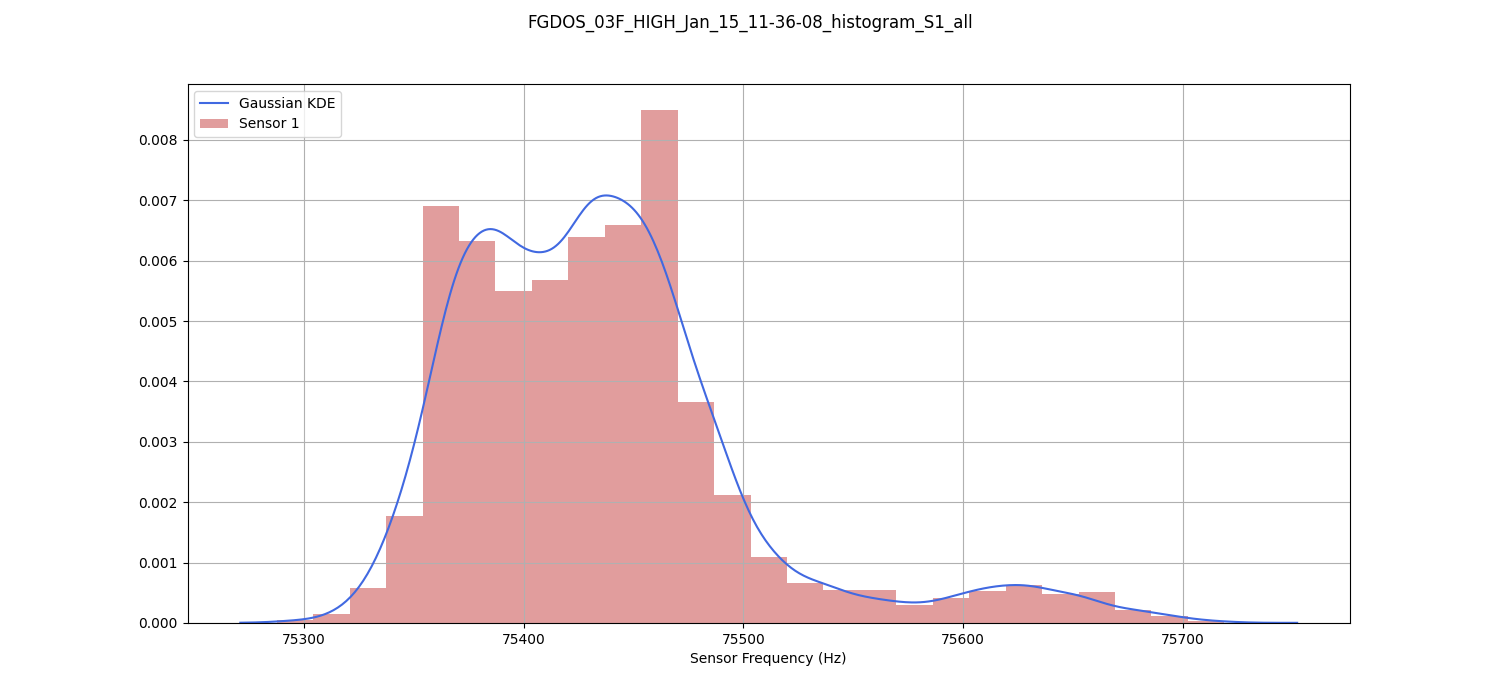
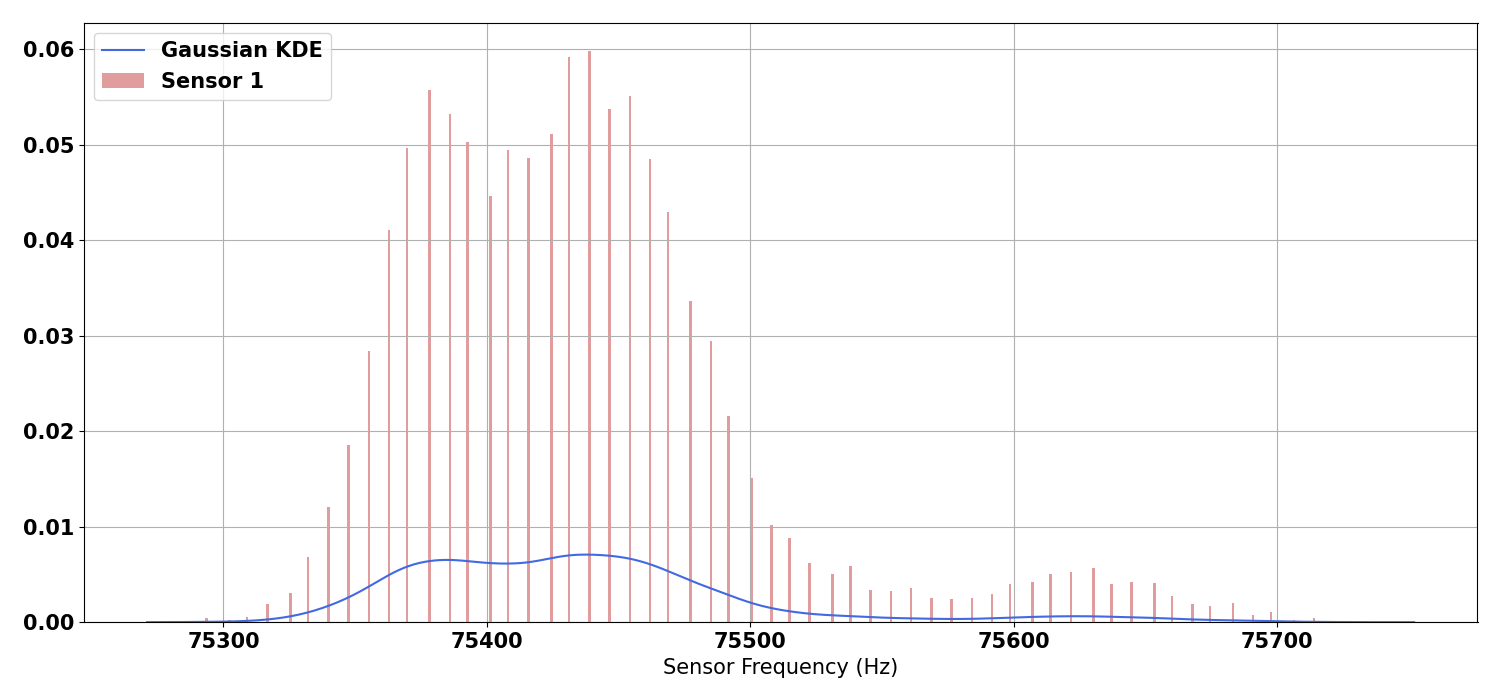
D:\TUDelft\Thesis\P. Code\P. VSCode\Python_Scripts added analysis of some of the tests of 24/03/2022 Please enter the commit message for your changes. Lines starting

diff --git a/FGD_03F_noise_analysis_functions.py b/FGD_03F_noise_analysis_functions.py
@@ -397,29 +397,29 @@ def HIGH_Jan_15_analysis(file_1,file_2,folder):
     i_end_1, i_end_2 = dataset_1.index.tolist()[-1] , dataset_2.index.tolist()[-1]
 
     # Histogram and noise range limits
-    x_1_l, x_2_l = dataset_1.loc[i_start_1:i_end_1,[F_s_info]] , dataset_2.loc[i_start_2:i_end_2,[F_s_info]]
+    x_1_l, x_2_l = dataset_1.loc[i_start_1:i_end_1,F_s_info] , dataset_2.loc[i_start_2:i_end_2,F_s_info]
     sensitivity = 10 # kHz/Gy
-    print("number of data points S1: %d"%(len(x_1_l[F_s_info])))
-    fig, ax, kde = hist_dist_plot(x_1_l,file_name_1[0:-7]+'_histogram_S1_all','Sensor 1', colors=['indianred','royalblue'],savefolder=savefolder, bins=29, dist = 'kde')[0:3]
+    print("number of data points S1: %d"%(len(x_1_l)))
+    fig, ax, kde = hist_dist_plot(x_1_l,F_s_info,file_name_1[0:-7]+'_histogram_S1_all','Sensor 1', colors=['indianred','royalblue'],savefolder=savefolder, bins=500, dist = 'kde')[0:3] # 29 bins
     resolution_1 = kde_limits(x_1_l,1000,kde,sensitivity)
-    print("number of data points S2: %d"%(len(x_2_l[F_s_info])))
-    fig, ax, kde = hist_dist_plot(x_2_l,file_name_1[0:-7]+'_histogram_S2_all','Sensor 2', colors=['royalblue','indianred'],savefolder=savefolder, bins = 23,dist='kde')[0:3]
+    print("number of data points S2: %d"%(len(x_2_l)))
+    fig, ax, kde = hist_dist_plot(x_2_l,F_s_info,file_name_1[0:-7]+'_histogram_S2_all','Sensor 2', colors=['royalblue','indianred'],savefolder=savefolder, bins = 500,dist='kde')[0:3] # 23 bins
     resolution_2 = kde_limits(x_2_l,1000,kde,sensitivity)
     print("Resolution assuming %f (kHz/Gy) sensitivity (mGy) (S1 | S2): %.3f | %.3f "%(sensitivity,resolution_1,resolution_2))
 
     # take full range and compare to part of range!
-    print("OVER PART RANGE (1250-1850")
+    print("OVER PART RANGE (1250-1850)")
     i_start_1, i_start_2 = dataset_1.index[dataset_1[t_info_s]>=1250].tolist()[0] , dataset_2.index[dataset_2[t_info_s]>=1250].tolist()[0]
     i_end_1, i_end_2 = dataset_1.index[dataset_1[t_info_s]>=1850].tolist()[0] , dataset_2.index[dataset_2[t_info_s]>=1850].tolist()[0]
 
     # Histogram and noise range limits
-    x_1_l, x_2_l = dataset_1.loc[i_start_1:i_end_1,[F_s_info]] , dataset_2.loc[i_start_2:i_end_2,[F_s_info]]
+    x_1_l, x_2_l = dataset_1.loc[i_start_1:i_end_1,F_s_info] , dataset_2.loc[i_start_2:i_end_2,F_s_info]
     sensitivity = 10 # kHz/Gy
-    print("number of data points S1: %d"%(len(x_1_l[F_s_info])))
-    fig, ax, kde = hist_dist_plot(x_1_l,file_name_1[0:-7]+'_histogram_S1_part','Sensor 1', colors=['indianred','royalblue'],savefolder=savefolder, bins=23, dist = 'kde')[0:3]
+    print("number of data points S1: %d"%(len(x_1_l)))
+    fig, ax, kde = hist_dist_plot(x_1_l,F_s_info,file_name_1[0:-7]+'_histogram_S1_part','Sensor 1', colors=['indianred','royalblue'],savefolder=savefolder, bins=23, dist = 'kde')[0:3]
     resolution_1 = kde_limits(x_1_l,1000,kde,sensitivity)
-    print("number of data points S2: %d"%(len(x_2_l[F_s_info])))
-    fig, ax, kde = hist_dist_plot(x_2_l,file_name_1[0:-7]+'_histogram_S2_part','Sensor 2', colors=['royalblue','indianred'],savefolder=savefolder, bins = 23,dist='kde')[0:3]
+    print("number of data points S2: %d"%(len(x_2_l)))
+    fig, ax, kde = hist_dist_plot(x_2_l,F_s_info,file_name_1[0:-7]+'_histogram_S2_part','Sensor 2', colors=['royalblue','indianred'],savefolder=savefolder, bins = 23,dist='kde')[0:3]
     resolution_2 = kde_limits(x_2_l,1000,kde,sensitivity)
     print("Resolution assuming %f (kHz/Gy) sensitivity (mGy) (S1 | S2): %.3f | %.3f "%(sensitivity,resolution_1,resolution_2))
 
@@ -707,8 +707,8 @@ def HIGH_w32768_Feb_23_analysis(file_1,file_2,folder):
     print("PART OF RANGE (600-2400)")
     x_1_l, x_2_l = x_1_l, x_2_l = dataset_1.loc[i_start_1:i_end_1,F_s_info] , dataset_2.loc[i_start_2:i_end_2,F_s_info]
     print("number of data points (S1 | S2): %d | %d"%(len(x_1_l),len(x_2_l)))
-    mu_1,std_1 = hist_dist_plot(x_1_l,F_s_info,file_name_1[0:-7]+'_histogram_S1','Sensor 1', colors=['indianred','royalblue'],savefolder=savefolder, bins=18,dist='normal')[3:5]
-    mu_2,std_2 = hist_dist_plot(x_2_l,F_s_info,file_name_1[0:-7]+'_histogram_S2','Sensor 2', colors=['royalblue','indianred'],savefolder=savefolder, bins = 18,dist='normal')[3:5]
+    mu_1,std_1 = hist_dist_plot(x_1_l,F_s_info,file_name_1[0:-7]+'_histogram_S1','Sensor 1', colors=['indianred','royalblue'],savefolder=savefolder, bins=1000,dist='normal')[3:5] # bins 18
+    mu_2,std_2 = hist_dist_plot(x_2_l,F_s_info,file_name_1[0:-7]+'_histogram_S2','Sensor 2', colors=['royalblue','indianred'],savefolder=savefolder, bins=1000,dist='normal')[3:5] # bins 18
     print("Noise peak to peak range limits (+- 2*sigma = 95.45%%) S1 (mu | 4s ): %f | %f "%(mu_1,4*std_1))
     print("Noise peak to peak range limits (+- 2*sigma = 95.45%%) S2 (mu | 4s ): %f | %f "%(mu_2,4*std_2))
 
@@ -728,7 +728,7 @@ def HIGH_w32768_Feb_23_analysis(file_1,file_2,folder):
     data_points_1, data_points_2 = len(y_1_noise.index),len(y_2_noise.index)
     print("data points (S1 | S2): %d | %d"%(data_points_1,data_points_2))
     mu_1,std_1 = hist_dist_plot(y_1_noise,F_s_info,file_name_1[0:-7]+'_histogram_S1_noise','Sensor 1', colors=['indianred','royalblue'],savefolder=savefolder, bins=18,dist='normal')[3:5]
-    mu_2,std_2 = hist_dist_plot(y_2_noise,F_s_info,file_name_1[0:-7]+'_histogram_S2_noise','Sensor 2', colors=['royalblue','indianred'],savefolder=savefolder, bins = 18,dist='normal')[3:5]
+    mu_2,std_2 = hist_dist_plot(y_2_noise,F_s_info,file_name_1[0:-7]+'_histogram_S2_noise','Sensor 2', colors=['royalblue','indianred'],savefolder=savefolder, bins=18,dist='normal')[3:5]
     print("Noise peak to peak range limits (+- 2*sigma = 95.45%%) S1 (mu | 4s ): %f | %f "%(mu_1,4*std_1))
     print("Noise peak to peak range limits (+- 2*sigma = 95.45%%) S2 (mu | 4s ): %f | %f "%(mu_2,4*std_2))
 

diff --git a/FGD_03F_analysis.py b/FGD_03F_analysis.py
@@ -11,8 +11,8 @@ from FGD_03F_file_analysis_functions import *
 from FGD_03F_noise_analysis_functions import *
 
 flag_HollandPTC_1216 = 0
-flag_HollandPTC_0224 = 1
-flag_Noise = 0
+flag_HollandPTC_0224 = 0
+flag_Noise = 1
 
 if (flag_HollandPTC_1216):
     # which files to analyse
@@ -42,12 +42,12 @@ elif (flag_Noise):
     flag_Noise_04_HIGH_Dec_16 = 0
     flag_HIGH_Jan_14 = 0
     flag_HIGH_Jan_15 = 0
-    flag_LOW_Jan_15 = 1
+    flag_LOW_Jan_15 = 0
     flag_HIGH_Jan_26 = 0
     flag_HIGH_Feb_18 = 0
     flag_HIGH_w32768_Feb_22 = 0
     flag_HIGH_Feb_23 = 0
-    flag_HIGH_w32768_Feb_23 = 0
+    flag_HIGH_w32768_Feb_23 = 1
 elif (flag_HollandPTC_0224):
     # which files to analyse
     start_of_filename = "FGDOS"

diff --git a/FGD_03F_functions.py b/FGD_03F_functions.py
@@ -435,6 +435,7 @@ def kde_limits(data,steps,kde,confidence = 0.9545):
     xmin, xmax = limits([data])
     extension = (xmax-xmin)/4
     x = np.linspace(xmin-extension, xmax+extension, steps)
+    low_lim,high_lim = -1000,-1000
     flag = True
     for x in x:
         kde_int = kde.integrate_box_1d(xmin,x)
